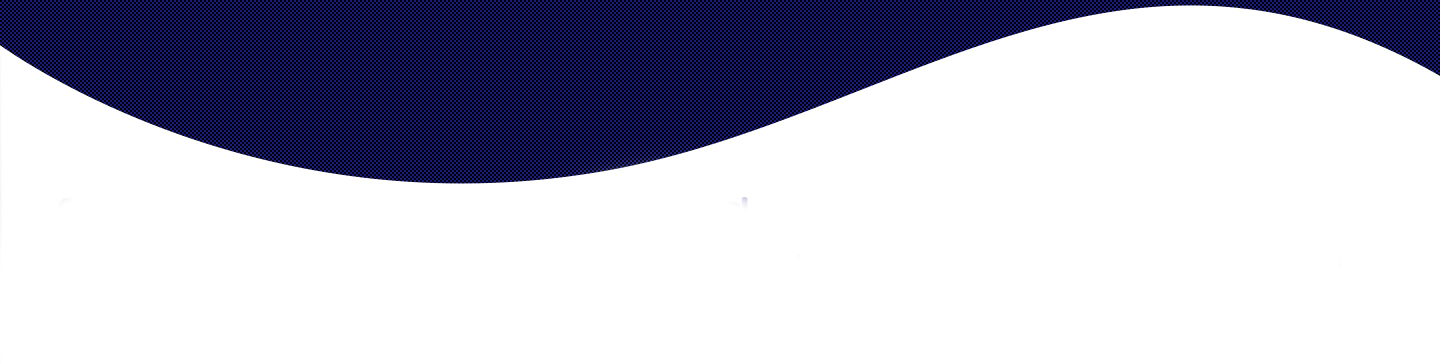
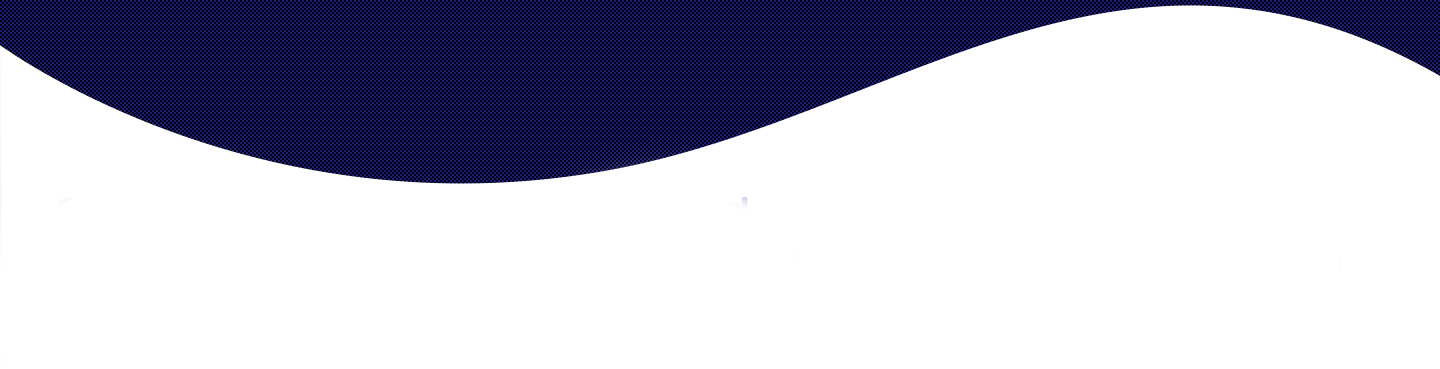
footer background inconsistencies

Changed region(s): [[0.0, 0.0302, 0.7812, 0.5137], [0.875, 0.0302, 1.0, 0.2115]]

diff --git a/html/team.html b/html/team.html
@@ -54,8 +54,6 @@
                             </span>
                         </li>
                         <li class="item"><a href="../index.html">Home</a></li>
-                        <li class="item"><a href="../index.html/#about-us">About Us</a></li>
-                        <li class="item"><a href="../index.html#section-3">Product</a></li>
                         <li class="toggle"><a href="#"><i class="fas fa-bars"></i></a></li>
                     </ul>
                 </nav>

diff --git a/css/style.css b/css/style.css
@@ -169,7 +169,7 @@ a {
   display: none;
 }
 .active {
-  background-color: var(--blue);
+  background-color: #06083d;
 }
 .active .item {
   display: block;
@@ -326,6 +326,7 @@ a {
   padding-left: 30px;
   padding-right: 30px;
   padding-bottom: 30px;
+  background-size: 100%;
 }
 
 .section1-wrapper .text {
